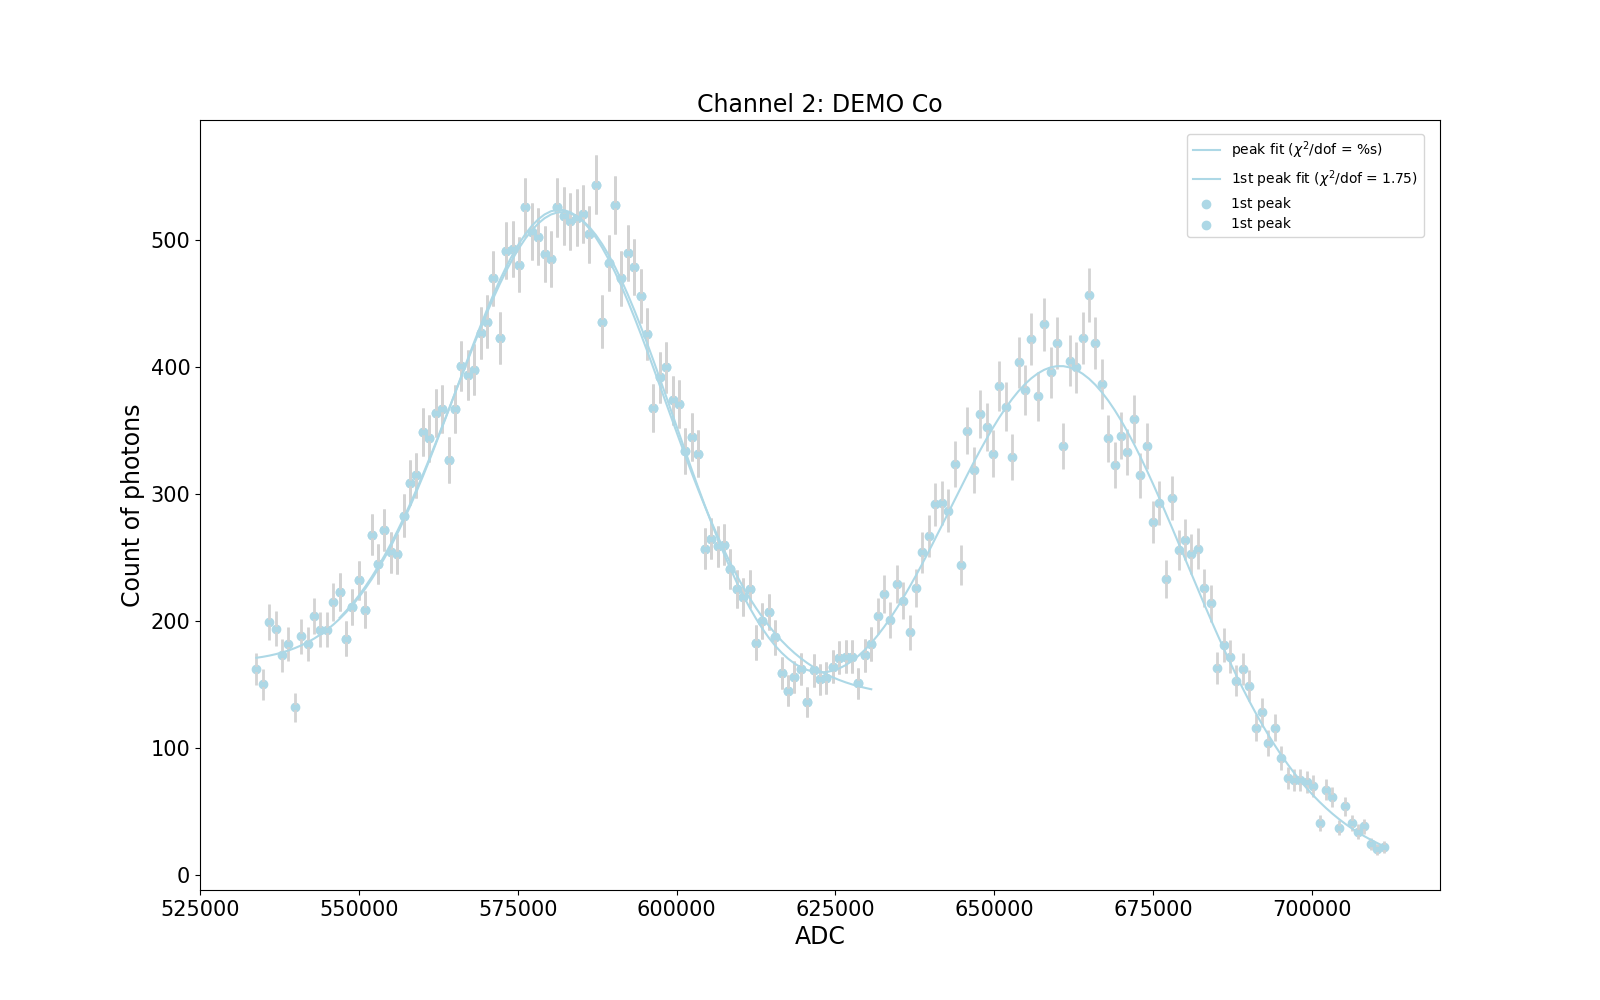
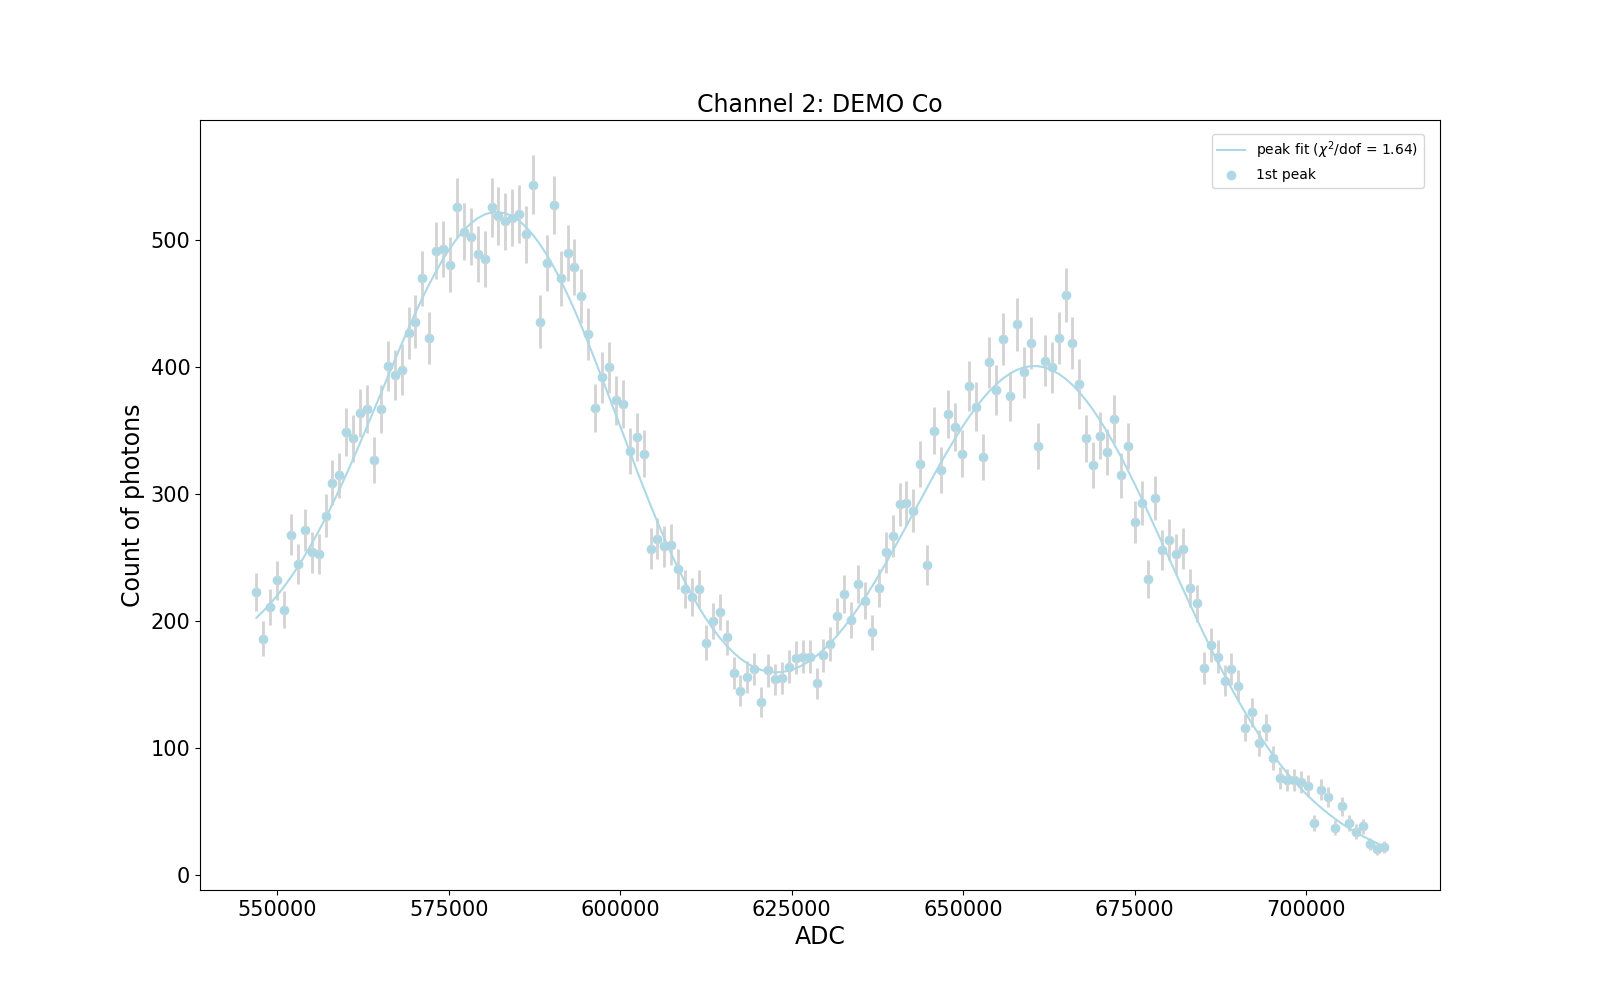
Work of the morning

diff --git a/auto.py b/auto.py
@@ -20,7 +20,7 @@ def chi2red(sel,are1or2gaussians,*p):
         dof=len(binc[sel])-5
     else:
         chi2=sum(((hist[sel] - _2_gaussian_func(binc[sel],*p) )/ err_hist[sel]) ** 2)
-        dof=len(binc[sel])-8       
+        dof=len(binc[sel])-8
     #print(chi2, dof)
     return round(chi2/dof,2)
 
@@ -56,8 +56,10 @@ for k,el in enumerate(Elements):
 
     E = [E1, E2, E3]
     parameters1 = [['Channel', 'Amplitude', 'Average', 'AverageError', 'Sigma', 'SigmaError', 'a', 'b']]
+    paramCo1 = [['Channel', 'Amplitude', 'Average', 'AverageError', 'Sigma', 'SigmaError', 'a', 'b']]
     #parameters2 = [['Channel', 'Amplitude', 'Average', 'Sigma', 'a', 'b']]
     parameters2 = []
+    paramCo2=[]
 
     for i,ch in enumerate(Channel):
 
@@ -74,14 +76,27 @@ for k,el in enumerate(Elements):
             #print(binc[m], binc[maxim])
             par_2max, par_va_2max = curve_fit(_2_gaussian_func, binc[defin], hist[defin], p0=[np.max(hist), binc[m][0], binc[m][0]*0.01, np.max(hist), binc[maxim][0], binc[maxim][0]*0.01, 1, 1 ],sigma=err_hist[defin],absolute_sigma=True)
             #print(*par_2max)
-            #sel_off_2max = (binc>(par_2max[1]-3*par_2max[2]))*(binc<(par_2max[4]+3*par_2max[5]))
-            #par_2max_off, par_va_2max_off = curve_fit(_2_gaussian_func, binc[defin], hist[defin])
-            
+            sel_off_2max = (binc>(par_2max[1]-3*par_2max[2]))*(binc<(par_2max[4]+3*par_2max[5]))
+            par_2max_off, par_va_2max_off = curve_fit(_2_gaussian_func, binc[sel_off_2max], hist[sel_off_2max], p0=par_2max, sigma=err_hist[sel_off_2max],absolute_sigma=True)
+
             chi2=chi2red(defin,2,*par_2max)
             a=chi2**0.5
             print(a)
-        
-            
+
+            par_2max_off, par_va_2max_off = curve_fit(_2_gaussian_func, binc[sel_off_2max], hist[sel_off_2max], p0=par_2max, sigma=a*err_hist[sel_off_2max],absolute_sigma=True)
+
+            mu_err = np.sqrt(np.diag(par_va_2max_off)[1])
+            sigma_err = np.sqrt(np.diag(par_va_2max_off)[2])
+
+            mu_err_2 = np.sqrt(np.diag(par_va_2max_off)[4])
+            sigma_err_2 = np.sqrt(np.diag(par_va_2max_off)[5])
+
+            print(i+1, par_2max_off[0],par_2max_off[1], mu_err, par_2max_off[2], sigma_err, par_2max_off[6],par_2max_off[7])
+
+            paramCo1.append([i+1, par_2max_off[0],par_2max_off[1], mu_err, par_2max_off[2], sigma_err, par_2max_off[6],par_2max_off[7]])
+            paramCo2.append([i+1, par_2max_off[3],par_2max_off[4], mu_err_2, par_2max_off[5], sigma_err_2, par_2max_off[6],par_2max_off[7]])
+
+
             plt.figure(10*k+i+1, figsize=(16,10))
             g1=plt.scatter(binc[defin],hist[defin],label='1st peak',color='lightblue')
             plt.errorbar(binc[defin], hist[defin], err_hist[defin],fmt='.', color='lightblue',ecolor='lightgray', elinewidth=2, capsize=0)
@@ -94,16 +109,18 @@ for k,el in enumerate(Elements):
             par, par_var=curve_fit(gaussian_func, binc[sel], hist[sel], p0=[np.max(hist), mean, mean*0.01, 1, 1],sigma=err_hist[sel],absolute_sigma=True)
             sel_off = (binc>(par[1]-3*par[2]))*(binc<(par[1]+3*par[2]))
         #    mean = np.mean(binc[sel_off])
-
             par_off, par_var_off = curve_fit(gaussian_func, binc[sel_off], hist[sel_off], p0=par, sigma=err_hist[sel_off],absolute_sigma=True)
-            mu_err = np.sqrt(np.diag(par_var_off)[1])
-            sigma_err = np.sqrt(np.diag(par_var_off)[2])
-            parameters1.append([i+1, par_off[0],par_off[1], mu_err, par_off[2], sigma_err, par_off[3],par_off[4]])
-            
+
             chi2=chi2red(sel_off,1,*par_off)
             a=chi2**0.5
             print(a)
-            
+
+            par_off_, par_var_off = curve_fit(gaussian_func, binc[sel_off], hist[sel_off], p0=par, sigma=a*err_hist[sel_off],absolute_sigma=True)
+
+            mu_err = np.sqrt(np.diag(par_var_off)[1])
+            sigma_err = np.sqrt(np.diag(par_var_off)[2])
+            parameters1.append([i+1, par_off[0],par_off[1], mu_err, par_off[2], sigma_err, par_off[3],par_off[4]])
+
             plt.figure(10*k+i+1, figsize=(16,10))
             g1=plt.scatter(binc[sel_off],hist[sel_off],label='1st peak',color='lightblue')
             plt.errorbar(binc[sel_off], hist[sel_off], err_hist[sel_off],fmt='.', color='lightblue',ecolor='lightgray', elinewidth=2, capsize=0)
@@ -126,14 +143,17 @@ for k,el in enumerate(Elements):
                 sel_off_new = (binc>(par_new[1]-3*par_new[2]))*(binc<(par_new[1]+3*par_new[2]))
 
                 par_off, par_var_off = curve_fit(gaussian_func, binc[sel_off_new], hist[sel_off_new], p0=par_new, sigma=err_hist[sel_off_new],absolute_sigma=True)
-                mu_err = np.sqrt(np.diag(par_var_off)[1])
-                sigma_err = np.sqrt(np.diag(par_var_off)[2])
-                parameters2.append([i+1, par_off[0], par_off[1], mu_err, par_off[2], sigma_err, par_off[3],par_off[4]])
-               
+
                 chi2=chi2red(sel_off_new,1,*par_off)
                 a=chi2**0.5
                 print(a)
-                
+                par_off, par_var_off = curve_fit(gaussian_func, binc[sel_off_new], hist[sel_off_new], p0=par_new, sigma=a*err_hist[sel_off_new],absolute_sigma=True)
+
+                mu_err = np.sqrt(np.diag(par_var_off)[1])
+                sigma_err = np.sqrt(np.diag(par_var_off)[2])
+                parameters2.append([i+1, par_off[0], par_off[1], mu_err, par_off[2], sigma_err, par_off[3],par_off[4]])
+
+
                 g3=plt.scatter(binc[sel_off_new],hist[sel_off_new],label='2nd peak',color='orange')
                 plt.errorbar(binc[sel_off_new], hist[sel_off_new], err_hist[sel_off_new],fmt='.',color='orange',ecolor='lightgray', elinewidth=2, capsize=0)
                 g4=plt.plot(binc[sel_off_new], gaussian_func(binc[sel_off_new], *par_off),label='2nd peak fit'+' ($\chi^2$/dof = %s'%chi2+')',color='orange')
@@ -147,8 +167,13 @@ for k,el in enumerate(Elements):
         plt.savefig('FitPeak2_channel_'+el+ch.format(i))
     #    plt.show()
     paramTot = parameters1 + parameters2
+    if (el == 'Co'):
+        paramTotCo = paramCo1 + paramCo2
+        np.savetxt("ParametersCo1.csv", paramTotCo, delimiter=" ", fmt='%s')
+    #print(paramTotCo, paramCo1, paramCo2)
 
     np.savetxt("Parameters"+el+".csv", paramTot, delimiter=" ", fmt='%s')
+
 
     #parameters1_table = AsciiTable(parameters1)
     #parameters2_table = AsciiTable(parameters2)

diff --git a/calibration.py b/calibration.py
@@ -15,54 +15,59 @@ def Reso(E,k):
     i=2.35*np.sqrt(k/E)
     return(i)
 
-def Calibration(ADC,err_ADC,ADC_Width,err_ADC_width,E_exp):  ##Channel number is a word; ex: "channel 2"
+def Calibration(ADC,err_ADC,E_exp,Channel_number):  ##Channel number is a word; ex: "channel 2"
     """Calibration fit C=f(E)"""
 
     par_Cal, par_Cal_var=curve_fit(Cal,E_exp,ADC,sigma=err_ADC,absolute_sigma=True)
 
-    a=par_Cal[0]
-    err_a=np.sqrt(np.diag(par_Cal_var)[0])
+    a=round(par_Cal[0],3)                   ### a coef to go like C=a*E
+    err_a=round(np.sqrt(np.diag(par_Cal_var)[0]),3)
 
-    plt.figure(1)
-    plt.errorbar(E,ADC,yerr=err_ADC,fmt='b.',capsize=4)
-    plt.plot(E_exp,Cal(E_exp,par_Cal[0]),c='k',label="ajustement function")
-    plt.title('Calibration ADC=f(E)',fontsize=20)
+
+    #plt.figure(Channel_number)
+    plt.errorbar(E_exp,ADC,yerr=err_ADC,fmt='b.',capsize=4)
+    plt.plot(E_exp,Cal(E_exp,par_Cal[0]),c='k',label="a=%s"%a+"$\pm$%s"%err_a)
+    plt.title('Calibration detector{} ADC=f(E)'.format(Channel_number),fontsize=20)
     plt.xlabel('E (keV)')
     plt.ylabel('ADC')
+    # plt.annotate(r'$\a$',xy=(1000,np.mean(ADC)), xycoords='data',xytext=(+10, +30), textcoords='offset points', fontsize=16)
+    # plt.annotate(f'={round(a,3)}+-{round(err_a,3)}',xy=(1200,np.mean(ADC)), xycoords='data',xytext=(+10, +30), textcoords='offset points', fontsize=16)
+    plt.legend()
+    plt.savefig('Calibration_channel_{}'.format(Channel_number))
+    plt.show()
+
+    return ([a,err_a])
+
+def Resolution(ADC,err_ADC,ADC_Width,err_ADC_width,a,err_a,Channel_number):    ##a is the coeff ADC=a*E so in kev-1 and Channel number is a word; ex: "channel 2"
+
+    """Resolution fit"""
+    ###First define E and E_width with their respective uncertainties
+    E=ADC/a
+    err_E=np.sqrt((err_ADC/a)**2+(ADC*err_a/a**2)**2)
+
+    E_Width=ADC_width/a
+    err_E_Width=np.sqrt((err_ADC_Width/a)**2+(ADC_Width*err_a/a**2)**2)
+
+    ###Define the resolution as R
+    R=E_Width/E
+    err_R=np.sqrt((err_E_Width/E)**2+(err_E*E_Width/E**2)**2)
+
+    par_Res, par_Res_var=curve_fit(Res,E,R,sigma=err_R,absolute_sigma=True)
+
+    #plt.figure(Channel_number)
+    plt.errorbar(E,R,xerr=err_E,yerr=err_R,fmt='b.',capsize=4)
+    plt.plot(E,Res(np.linspace(min(E),max(E),1000),par_Res[0]),c='k',label="ajustement function")
+    plt.title('Resolution R=f(E)',fontsize=20)
+    plt.xlabel('E (keV)')
+    plt.ylabel('R')
     plt.legend()
     plt.show()
-    return ([a,err_a])
-#
-# def Resolution(ADC,err_ADC,ADC_Width,err_ADC_width,a,err_a,Channel_number):    ##a is the coeff ADC=a*E so in kev-1 and Channel number is a word; ex: "channel 2"
-#
-#     """Resolution fit"""
-#     ###First define E and E_width with their respective uncertainties
-#     E=ADC/a
-#     err_E=np.sqrt((err_ADC/a)**2+(ADC*err_a/a**2)**2)
-#
-#     E_Width=ADC_width/a
-#     err_E_Width=np.sqrt((err_ADC_Width/a)**2+(ADC_Width*err_a/a**2)**2)
-#
-#     ###Define the resolution as R
-#     R=E_Width/E
-#     err_R=np.sqrt((err_E_Width/E)**2+(err_E*E_Width/E**2)**2)
-#
-#     par_Res, par_Res_var=curve_fit(Res,E,R,sigma=err_R,absolute_sigma=True)
-#
-#     plt.figure(2)
-#     plt.errorbar(E,R,xerr=err_E,yerr=err_R,fmt='b.',capsize=4)
-#     plt.plot(E,Res(np.linspace(min(E),max(E),1000),par_Res[0]),c='k',label="ajustement function")
-#     plt.title('Resolution R=f(E)',fontsize=20)
-#     plt.xlabel('E (keV)')
-#     plt.ylabel('R')
-#     plt.legend()
-#     plt.show()
-#     k=par_Res[0]**2
-#     err_k=np.sqrt(np.diag(par_Res_var)[0])*par_Res[0]*np.sqrt(2)
-#
-#     return(Channel_number," k=", k,"+-",err_k,"keV")
+    plt.savefig('Resolution_channel_{}'.format(Channel_number))
 
+    k=par_Res[0]**2
+    err_k=np.sqrt(np.diag(par_Res_var)[0])*par_Res[0]*np.sqrt(2)
 
+    return(Channel_number," k=", k,"+-",err_k,"keV")
 
 
 
@@ -86,12 +91,15 @@ for el in Elements:
     Ch2=pd.concat(([Ch2,data2]))
     Ch3=pd.concat(([Ch3,data3]))
 
-Ch1=np.array(Ch1)   ##Vectorizing the dataframes
-Ch2=np.array(Ch2)
-Ch2=np.array(Ch2)
+Ch1=(np.array(Ch1)).astype(float)   ##Vectorizing the dataframes + making sure the elements are floats
+Ch2=(np.array(Ch2)).astype(float)
+Ch3=(np.array(Ch3)).astype(float)
 
-# Frame123=pd.concat([Ch1,Ch2,Ch3])   ## 5 first lines is channel 1, the 5 next channel 2
 
-E_exp=np.array([1173,1332,511,1275]) ##expected energy of the pics from the spectrums Co Na Cs in keV
+E_exp=np.array([1173.,1332.,511.,1275.,662.]) ##expected energy of the pics from the spectrums Co Na Cs in keV
 
-print(Calibration(Ch1[:,1],Ch1[:,2],Ch1[:,3],Ch1[:,4],E_exp)[0])
+print(Calibration(Ch1[:,2],Ch1[:,3],E_exp,1))
+print(Calibration(Ch2[:,2],Ch2[:,3],E_exp,2))
+print(Calibration(Ch3[:,2],Ch3[:,3],E_exp,3))
+
+# Resolution(Ch1[:,2],Ch1[:,3],Ch1[:,4],Ch1[:,5],a,err_a,Channel_number)

diff --git a/convert.py b/convert.py
@@ -1,0 +1,8 @@
+import numpy as np
+import matplotlib.pyplot as plt
+
+#data = np.loadtxt("CalibrationNa")
+#np.save("CalibrationNa",data.T[0:6])
+
+dataT = np.load("CalibrationNa.npy")
+
